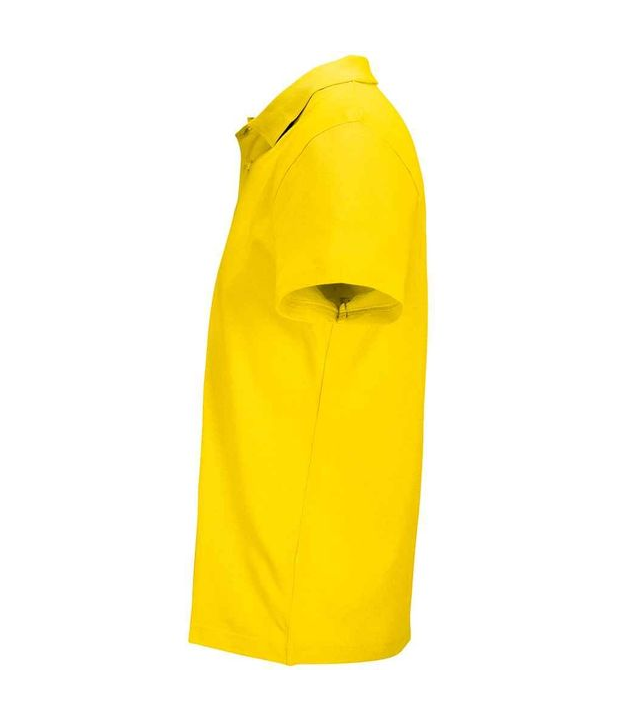
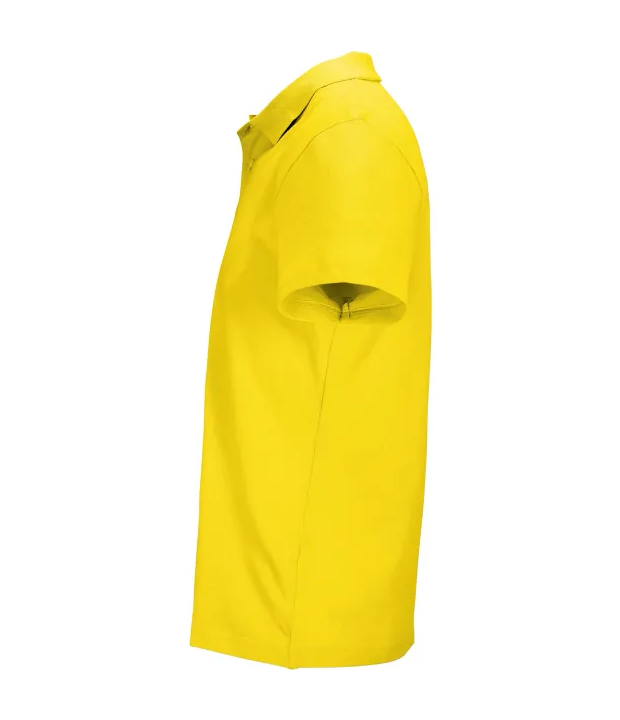
Rueckansichten Charge 5: Rueck-Platzhalter auf 268
Ein Agent hat dafuer im B&C-DAM das Nummernschema entschluesselt: Die Media-IDs
laufen in Zweierschritten, die ungerade Zwischen-ID traegt dieselbe Datei mit
Endung _02 statt _01 - also die Rueckansicht. Belegt an einer Farbe, deren
Rueckbild schon vorlag, dann uebertragen.

Ein zweiter fand die Rueckansichten der SOL'S North Fleece Jacket, obwohl der
Haendler sie im gesamten HTML nicht einmal erwaehnt - sie liegen ausgeliefert
auf dem CDN, nur nicht in der Galerie eingebunden. Er hat sich deshalb nicht auf
das Muster verlassen, sondern jede Datei einzeln geladen und angesehen.

diff --git a/src/config/printAreaData.generated.ts b/src/config/printAreaData.generated.ts
@@ -527,7 +527,7 @@ export const PRINT_AREA_DATA: Record<string, Partial<Record<PrintView, Generated
   },
   'earthpositive-jersey-polo-shirt': {
     front: { x0: 35.1, y0: 29.2, x1: 64.9, y1: 69.4, imgW: 620, imgH: 720, maxWidthCm: 30, maxHeightCm: 47, boxWidthCm: 30, boxHeightCm: 47, garmentWidthCm: 50, garmentHeightCm: 63 },
-    back: { x0: 35.1, y0: 29.2, x1: 64.9, y1: 69.4, imgW: 620, imgH: 720, maxWidthCm: 30, maxHeightCm: 47, boxWidthCm: 30, boxHeightCm: 47, garmentWidthCm: 50, garmentHeightCm: 63 },
+    back: { x0: 33.4, y0: 25.7, x1: 66.8, y1: 70.8, imgW: 620, imgH: 720, maxWidthCm: 30, maxHeightCm: 47, boxWidthCm: 30, boxHeightCm: 47, garmentWidthCm: 50, garmentHeightCm: 63 },
   },
   'russell-strapazierfaehiges-poloshirt-599': {
     front: { x0: 30.7, y0: 23.7, x1: 69.8, y1: 76.4, imgW: 620, imgH: 720, maxWidthCm: 30, maxHeightCm: 47, boxWidthCm: 30, boxHeightCm: 47, garmentWidthCm: 50, garmentHeightCm: 59 },
@@ -571,7 +571,7 @@ export const PRINT_AREA_DATA: Record<string, Partial<Record<PrintView, Generated
   'sols-unisex-pulse-polo-shirt': {
     front: { x0: 30.6, y0: 23.4, x1: 68.6, y1: 74.7, imgW: 620, imgH: 720, maxWidthCm: 30, maxHeightCm: 47, boxWidthCm: 30, boxHeightCm: 47, garmentWidthCm: 48, garmentHeightCm: 61 },
     back: { x0: 31.7, y0: 24.1, x1: 69.3, y1: 74.8, imgW: 620, imgH: 720, maxWidthCm: 30, maxHeightCm: 47, boxWidthCm: 30, boxHeightCm: 47, garmentWidthCm: 48, garmentHeightCm: 61 },
-    sleeve_left: { x0: 31.6, y0: 8.1, x1: 68.4, y1: 91.9, imgW: 620, imgH: 720, maxWidthCm: 8.9, maxHeightCm: 10, boxWidthCm: 26.5, boxHeightCm: 69.9, startXCm: 13, startYCm: 14, garmentWidthCm: 10.9, garmentHeightCm: 10 },
+    sleeve_left: { x0: 31.6, y0: 8.1, x1: 68.3, y1: 91.9, imgW: 620, imgH: 720, maxWidthCm: 8.9, maxHeightCm: 10, boxWidthCm: 26.4, boxHeightCm: 69.9, startXCm: 13, startYCm: 14, garmentWidthCm: 10.9, garmentHeightCm: 10 },
   },
   'gildan-heavy-blend-hooded-sweatshirt': {
     front: { x0: 35.6, y0: 40, x1: 63.7, y1: 77.9, imgW: 620, imgH: 720, maxWidthCm: 30, maxHeightCm: 47, boxWidthCm: 30, boxHeightCm: 47, garmentWidthCm: 52, garmentHeightCm: 60 },
@@ -639,7 +639,7 @@ export const PRINT_AREA_DATA: Record<string, Partial<Record<PrintView, Generated
   },
   'bundc-king-hooded-sweat': {
     front: { x0: 31.5, y0: 28.3, x1: 68.4, y1: 78.2, imgW: 620, imgH: 720, maxWidthCm: 30, maxHeightCm: 47, boxWidthCm: 30, boxHeightCm: 47, garmentWidthCm: 45, garmentHeightCm: 57 },
-    back: { x0: 31.1, y0: 28.1, x1: 68.8, y1: 79.1, imgW: 620, imgH: 720, maxWidthCm: 30, maxHeightCm: 47, boxWidthCm: 30, boxHeightCm: 47, garmentWidthCm: 45, garmentHeightCm: 57 },
+    back: { x0: 31, y0: 27.9, x1: 68.9, y1: 79, imgW: 620, imgH: 720, maxWidthCm: 30, maxHeightCm: 47, boxWidthCm: 30, boxHeightCm: 47, garmentWidthCm: 45, garmentHeightCm: 57 },
   },
   'bundc-id-223-hoodie': {
     front: { x0: 34.8, y0: 41.4, x1: 65.4, y1: 82.7, imgW: 620, imgH: 720, maxWidthCm: 30, maxHeightCm: 47, boxWidthCm: 30, boxHeightCm: 47, garmentWidthCm: 47, garmentHeightCm: 56 },
@@ -663,7 +663,7 @@ export const PRINT_AREA_DATA: Record<string, Partial<Record<PrintView, Generated
   },
   'earthpositive-earth-positive-super-heavy-hoodie': {
     front: { x0: 34.9, y0: 40.3, x1: 64.6, y1: 80.4, imgW: 620, imgH: 720, maxWidthCm: 30, maxHeightCm: 47, boxWidthCm: 30, boxHeightCm: 47, garmentWidthCm: 52, garmentHeightCm: 59 },
-    back: { x0: 34.9, y0: 40.3, x1: 64.6, y1: 80.4, imgW: 620, imgH: 720, maxWidthCm: 30, maxHeightCm: 47, boxWidthCm: 30, boxHeightCm: 47, garmentWidthCm: 52, garmentHeightCm: 59 },
+    back: { x0: 31.5, y0: 27.5, x1: 68.5, y1: 77.3, imgW: 620, imgH: 720, maxWidthCm: 30, maxHeightCm: 47, boxWidthCm: 30, boxHeightCm: 47, garmentWidthCm: 52, garmentHeightCm: 59 },
   },
   'earthpositive-earthpositive-organic-mensunisex-pullover-hoodie': {
     front: { x0: 34.4, y0: 29.4, x1: 65.5, y1: 71.4, imgW: 620, imgH: 720, maxWidthCm: 30, maxHeightCm: 47, boxWidthCm: 30, boxHeightCm: 47, garmentWidthCm: 52, garmentHeightCm: 63 },
@@ -758,7 +758,7 @@ export const PRINT_AREA_DATA: Record<string, Partial<Record<PrintView, Generated
   },
   'neutral-men-s-long-sleeve-t-shirt': {
     front: { x0: 28.6, y0: 16.8, x1: 71.5, y1: 74.7, imgW: 620, imgH: 720, maxWidthCm: 30, maxHeightCm: 47, boxWidthCm: 30, boxHeightCm: 47, garmentWidthCm: 47, garmentHeightCm: 59 },
-    back: { x0: 28.3, y0: 16.8, x1: 71.2, y1: 74.7, imgW: 620, imgH: 720, maxWidthCm: 30, maxHeightCm: 47, boxWidthCm: 30, boxHeightCm: 47, garmentWidthCm: 47, garmentHeightCm: 59 },
+    back: { x0: 28.5, y0: 16.8, x1: 71.4, y1: 74.7, imgW: 620, imgH: 720, maxWidthCm: 30, maxHeightCm: 47, boxWidthCm: 30, boxHeightCm: 47, garmentWidthCm: 47, garmentHeightCm: 59 },
     sleeve_left: { x0: 35.3, y0: 8.2, x1: 64.7, y1: 91.8, imgW: 620, imgH: 720, maxWidthCm: 8.9, maxHeightCm: 10, boxWidthCm: 20.5, boxHeightCm: 67.9, startXCm: 10.9, startYCm: 10.9, garmentWidthCm: 10.9, garmentHeightCm: 10 },
   },
   'sols-men-s-plain-fleece-jacket-norman': {

diff --git a/src/lib/assets/assetManifest.generated.ts b/src/lib/assets/assetManifest.generated.ts
@@ -3577,7 +3577,7 @@ export const ASSET_MANIFEST: Record<string, Record<string, AssetManifestEintrag>
     "navy-blue": {
       "views": {
         "front": "/products/bundc-inspire-e150-t-shirt-navy-blue/front.webp",
-        "back": "/products/_platzhalter/platzhalter.webp",
+        "back": "/products/bundc-inspire-e150-t-shirt-navy-blue/back.webp",
         "sleeve_left": "/products/bundc-inspire-e150-t-shirt-navy-blue/sleeve-left.webp"
       },
       "status": "real"
@@ -11445,7 +11445,7 @@ export const ASSET_MANIFEST: Record<string, Record<string, AssetManifestEintrag>
     "black": {
       "views": {
         "front": "/products/earthpositive-jersey-polo-shirt-black/front.webp",
-        "back": "/products/_platzhalter/platzhalter.webp"
+        "back": "/products/earthpositive-jersey-polo-shirt-black/back.webp"
       },
       "status": "real"
     }
@@ -12463,7 +12463,7 @@ export const ASSET_MANIFEST: Record<string, Record<string, AssetManifestEintrag>
     "gold": {
       "views": {
         "front": "/products/sols-unisex-pulse-polo-shirt-gold/front.webp",
-        "back": "/products/_platzhalter/platzhalter.webp",
+        "back": "/products/sols-unisex-pulse-polo-shirt-gold/back.webp",
         "sleeve_left": "/products/sols-unisex-pulse-polo-shirt-gold/sleeve-left.webp"
       },
       "status": "real"
@@ -14486,7 +14486,7 @@ export const ASSET_MANIFEST: Record<string, Record<string, AssetManifestEintrag>
     "navy-blue": {
       "views": {
         "front": "/products/bundc-king-hooded-sweat-navy-blue/front.webp",
-        "back": "/products/_platzhalter/platzhalter.webp"
+        "back": "/products/bundc-king-hooded-sweat-navy-blue/back.webp"
       },
       "status": "real"
     },
@@ -14626,7 +14626,7 @@ export const ASSET_MANIFEST: Record<string, Record<string, AssetManifestEintrag>
     "1f2532": {
       "views": {
         "front": "/products/bundc-king-hooded-sweat-1f2532/front.webp",
-        "back": "/products/_platzhalter/platzhalter.webp"
+        "back": "/products/bundc-king-hooded-sweat-1f2532/back.webp"
       },
       "status": "real"
     }
@@ -14749,7 +14749,7 @@ export const ASSET_MANIFEST: Record<string, Record<string, AssetManifestEintrag>
     "mastic": {
       "views": {
         "front": "/products/bundc-influence-hoodie-mastic/front.webp",
-        "back": "/products/_platzhalter/platzhalter.webp"
+        "back": "/products/bundc-influence-hoodie-mastic/back.webp"
       },
       "status": "real"
     },
@@ -15317,7 +15317,7 @@ export const ASSET_MANIFEST: Record<string, Record<string, AssetManifestEintrag>
     "black": {
       "views": {
         "front": "/products/earthpositive-earth-positive-super-heavy-hoodie-black/front.webp",
-        "back": "/products/_platzhalter/platzhalter.webp"
+        "back": "/products/earthpositive-earth-positive-super-heavy-hoodie-black/back.webp"
       },
       "status": "real"
     }
@@ -16292,7 +16292,7 @@ export const ASSET_MANIFEST: Record<string, Record<string, AssetManifestEintrag>
     "light-pink": {
       "views": {
         "front": "/products/gildan-ultra-cotton-long-sleeve-t-shirt-light-pink/front.webp",
-        "back": "/products/_platzhalter/platzhalter.webp",
+        "back": "/products/gildan-ultra-cotton-long-sleeve-t-shirt-light-pink/back.webp",
         "sleeve_left": "/products/gildan-ultra-cotton-long-sleeve-t-shirt-light-pink/sleeve-left.webp"
       },
       "status": "real"
@@ -17190,7 +17190,7 @@ export const ASSET_MANIFEST: Record<string, Record<string, AssetManifestEintrag>
     "charcoal": {
       "views": {
         "front": "/products/neutral-men-s-long-sleeve-t-shirt-charcoal/front.webp",
-        "back": "/products/_platzhalter/platzhalter.webp",
+        "back": "/products/neutral-men-s-long-sleeve-t-shirt-charcoal/back.webp",
         "sleeve_left": "/products/neutral-men-s-long-sleeve-t-shirt-charcoal/sleeve-left.webp"
       },
       "status": "real"
